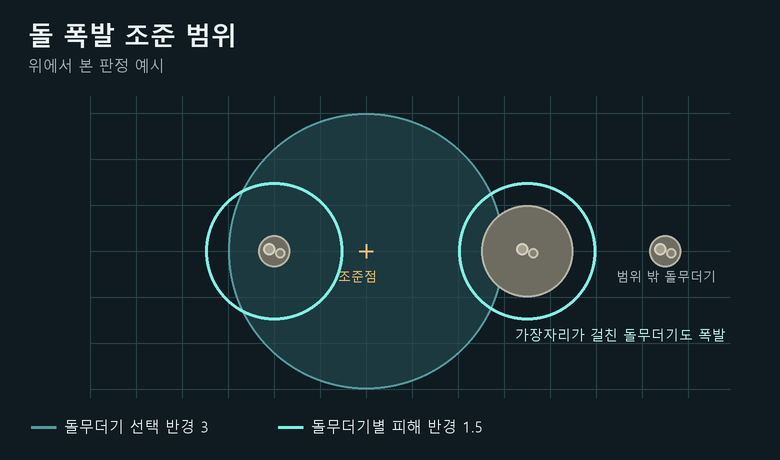
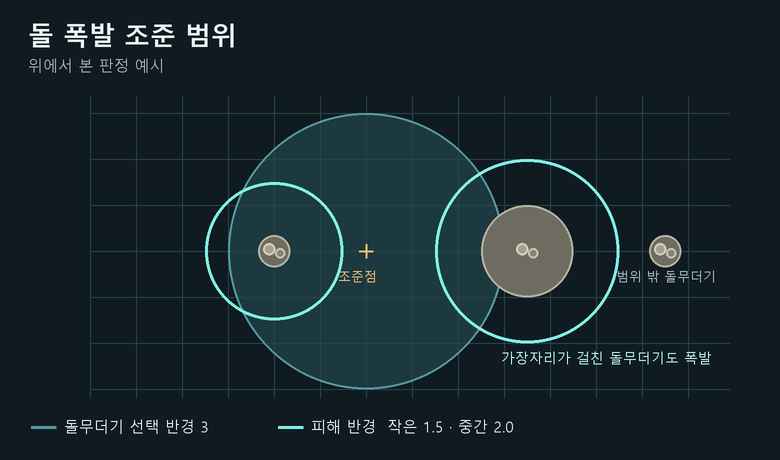
docs(aim): 크기별 돌무더기 피해 원과 반경 명시

Changed region(s): [[0.5538, 0.3348, 0.8, 0.6696], [0.5846, 0.6391, 0.9231, 0.7913], [0.4, 0.913, 0.6769, 0.9435]]

diff --git a/.agents/docs/scene-space.md b/.agents/docs/scene-space.md
@@ -280,5 +280,7 @@ ground lanes use only its x and z.
 사거리로 자른 3차원 조준점을 사용하고, `caster`면 시전자 위치를 사용한다.
 서버가 보낸 `Collider` 반경을 더한 값보다 중심 간 거리가 짧을 때만 원을 그린다.
 `radius`, `edgeWidth`, `forwardOffset`은 각 물체를 중심으로 일반 원과 같은 방식으로 해석한다.
-예를 들어 돌 폭발은 `selectionRadius`에서 `rock_blast.radius`를, `radius`에서
-`rock_explode.radius`를 참조한다. 이전 클라이언트는 새 레이어를 건너뛰고 기존 조준 원을 그린다.
+돌 폭발의 두 레이어는 `selectionRadius`에서 `rock_blast.radius`를 공유한다.
+작은 돌무더기의 `radius`는 `rock_explode.radius`, 중간 돌무더기는
+`rock_explode.medium_blast_radius`를 참조한다. 이전 클라이언트는 새 레이어를 건너뛰고
+기존 조준 원을 그린다.
